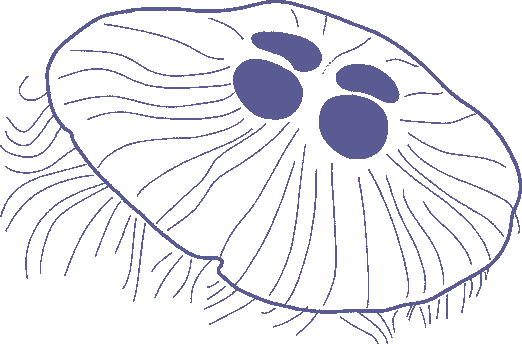
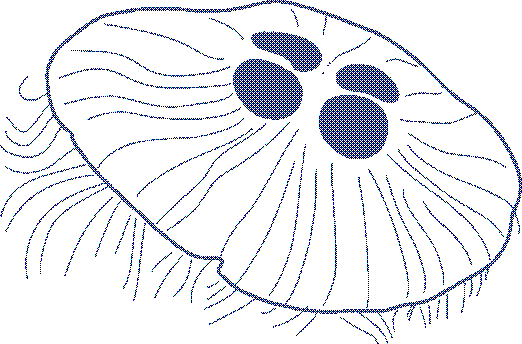
home

diff --git a/index.html b/index.html
@@ -25,14 +25,16 @@
 </nav>        </p>
 
 <div class="bodymargin">
-    <pre class="bodymarginTOP"><br><br><br><br><br><br><br><br><br><br><br><br><br><br><br><br><br><center>Hello :^)</center>
+    <p class="bodymarginTOP"><br><br><br><br><br><br><br><br><br><br><br><br><br><br><br><br><br><center>
+	<img width=100" src="imgs/home/aurita.png"><br>
+ </center>
 
 
 
 
 
 
-    </pre>
+    </p>
 </div>
 
     </body>
